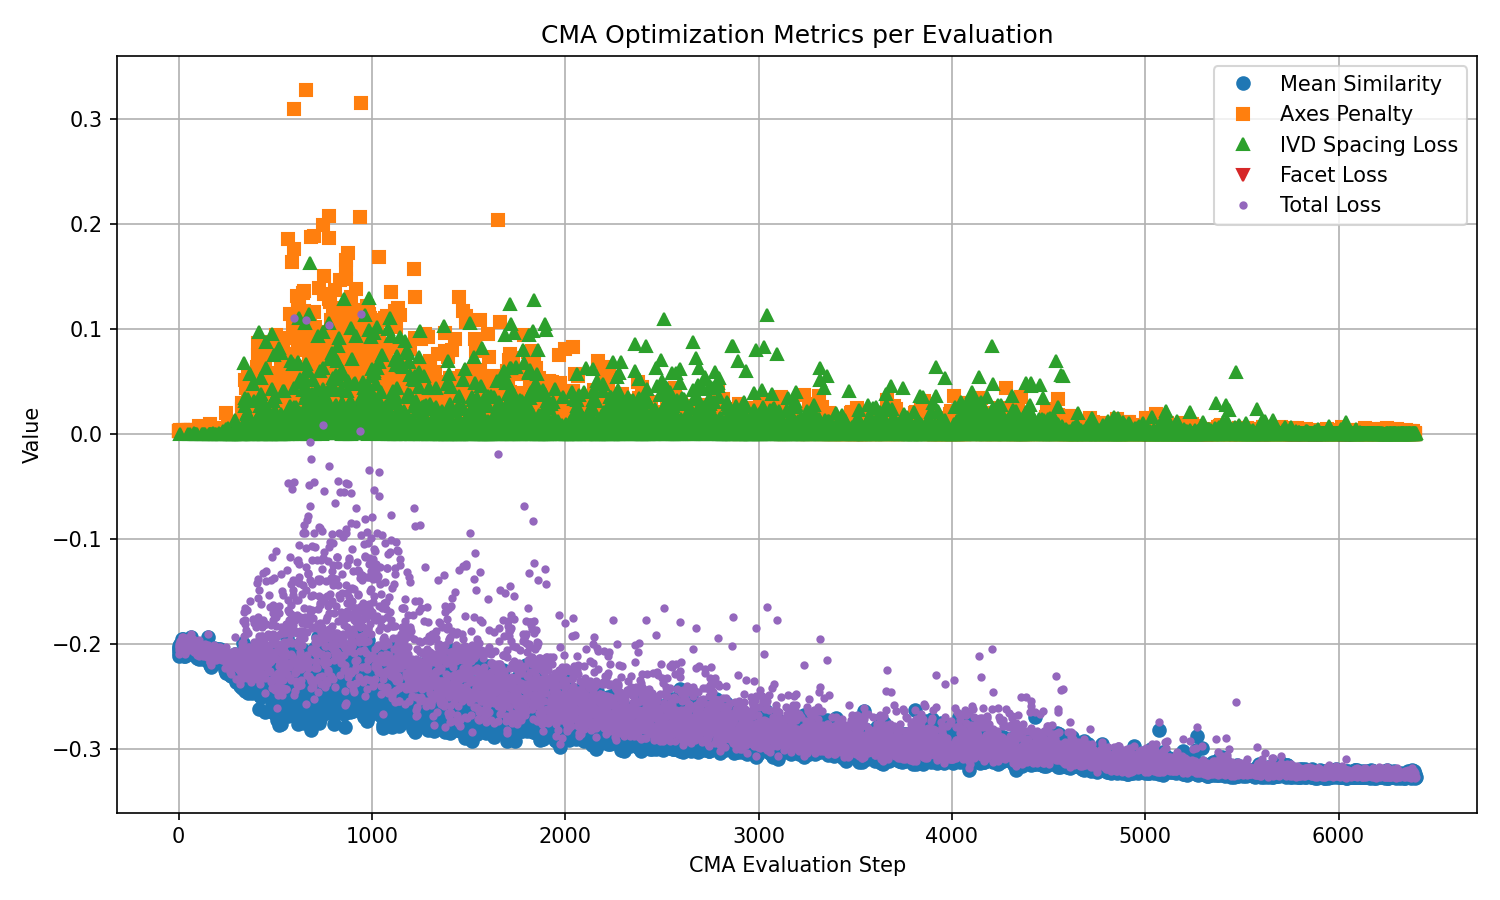
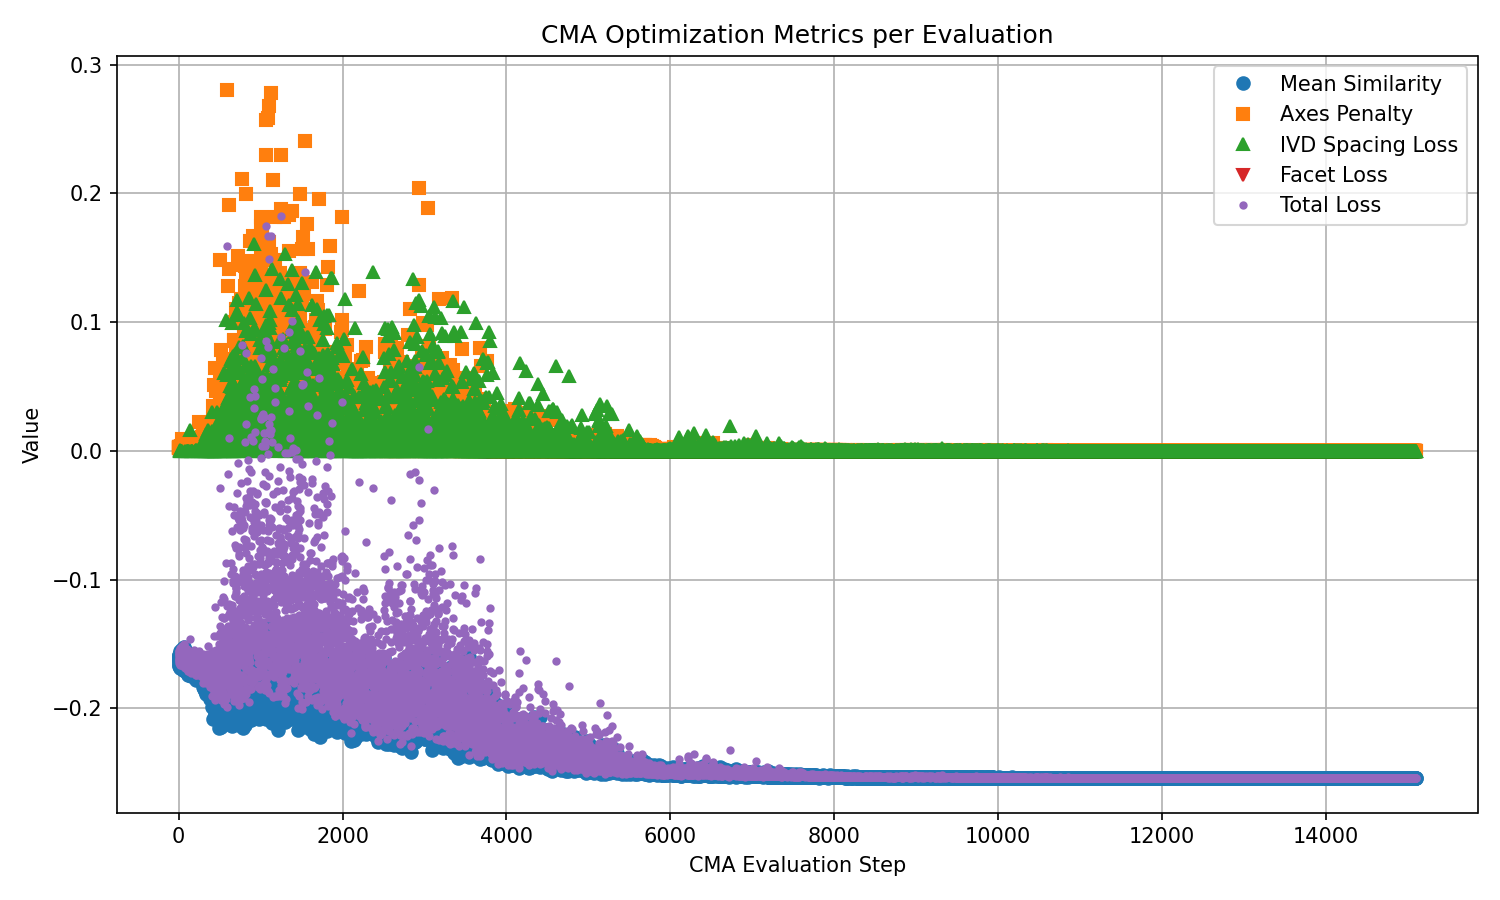
before annealing change

diff --git a/groupwise_GPU.py b/groupwise_GPU.py
@@ -15,7 +15,7 @@ from collections import defaultdict
 from enum import Enum
 # imports from my files
 from utils.file_parser import SlicerJsonTagParser, PyNrrdParser
-from utils.helpers import sitk_euler_to_matrix, compute_inter_vertebral_displacement_penalty, compute_ivd_collision_loss, compute_facet_collision_loss
+from utils.helpers import sitk_euler_to_matrix, sigmoid_ramp, compute_inter_vertebral_displacement_penalty, compute_ivd_collision_loss, compute_facet_collision_loss
 from utils.similarity import IntensitySimilarity
 from extra.centroid import compute_centroid
 from extra.CT_axis import compute_ct_axes
@@ -31,7 +31,7 @@ class ExperimentType(Enum):
 
 
 # CHANGE THIS TO SELECT EXPERIMENT
-EXPERIMENT = ExperimentType.MISSING_DATA
+EXPERIMENT = ExperimentType.NORMAL
 SUCCESS_THRESH_MM = 2.0
 
 
@@ -39,7 +39,7 @@ def get_experiment_settings(exp_type):
     """define experiment-specific settings"""
     if exp_type == ExperimentType.NORMAL:
         return {
-            "us_files": ["US_complete_cal.nrrd"], # can change this to L3
+            "us_files": ["US_full_L3_dropoutref_cal.nrrd"], # can change this to L3
             "perturb": False,
             "n_runs": 1
         }
@@ -55,7 +55,7 @@ def get_experiment_settings(exp_type):
         return {
             "us_files": ["US_full_L3_dropoutref_cal.nrrd"],
             "perturb": False,
-            "n_runs": 30
+            "n_runs": 10
         }
     
     if exp_type == ExperimentType.ROBUSTNESS:
@@ -160,7 +160,7 @@ def evaluate_group_gpu(flat_params, K, centers, sampled_positions_list,
 
     mean_sim = total_sim / float(K)
 
-    lambda_axes = 0.01
+    lambda_axes = 0.01 # 0.01
     axes_margins = {
         'LM': 2.0,
         'AP': 2.0,
@@ -174,7 +174,7 @@ def evaluate_group_gpu(flat_params, K, centers, sampled_positions_list,
         moved_centroids, case_centroids, case_axes, transforms_list, axes_margins
     )
 
-    lambda_ivd = 0.001
+    lambda_ivd = 0.001 # 0.001
     ivd_loss, ivd_metrics = compute_ivd_collision_loss(pairings, transforms_list, case_names)
     
     lambda_facet = 0.000
@@ -200,7 +200,8 @@ def evaluate_group_gpu(flat_params, K, centers, sampled_positions_list,
 
 # SINGLE REGISTRATION WRAPPER
 def run_single_registration(fixed_file, cases_dir, mesh_dir, output_dir, case_names, 
-    apply_perturbation, rng_seed=None, K=None, pairings=None,facet_pairings=None,track_metrics=False ):
+    apply_perturbation, rng_seed=None, K=None, pairings=None,facet_pairings=None,track_metrics=False,
+    save_transforms=False):
 
     
     # set random seed if provided
@@ -304,10 +305,10 @@ def run_single_registration(fixed_file, cases_dir, mesh_dir, output_dir, case_na
     base_stds = [0.01, 0.01, 0.01, 1.0, 1.0, 1.0]
     cma_stds = base_stds * K
     
-    popsize = 80
+    popsize = 100 # was 80
     parents = 20
-    lower_per = [-0.4, -0.4, -0.4, -5, -5, -5]
-    upper_per = [0.4, 0.4, 0.4, 5, 5, 5]
+    lower_per = [-0.4, -0.4, -0.4, -7, -7, -7] # first three are rotation (rad), then translation
+    upper_per = [0.4, 0.4, 0.4, 7, 7, 7] # was all 5 and -5
     lower = lower_per * K
     upper = upper_per * K
     
@@ -335,8 +336,8 @@ def run_single_registration(fixed_file, cases_dir, mesh_dir, output_dir, case_na
             'popsize': popsize,
             'CMA_mu': parents,
             'bounds': [lower, upper],
-            'verb_disp': 0,  # S
-            'maxiter': 80,
+            'verb_disp': 0,  
+            'maxiter': 100, # was 80
             'tolfun': 1e-5,
         }
     )
@@ -369,6 +370,23 @@ def run_single_registration(fixed_file, cases_dir, mesh_dir, output_dir, case_na
     # FINAL TRE
     best_flat = es.result.xbest
     tre_after = compute_case_tre(best_flat, K, case_names, case_landmarks, centers)
+
+    if save_transforms:
+        print("\nSaving transforms for each vertebra...")
+        for k, case in enumerate(case_names):
+            params = best_flat[6*k:6*(k+1)]
+            tx = sitk.Euler3DTransform()
+            tx.SetCenter(centers[k].tolist())
+            tx.SetParameters(params.tolist())
+            
+            # Save transform with run_id in filename if doing multiple runs
+            if rng_seed is not None and rng_seed > 0:
+                out_name = os.path.join(output_dir, f"TransformParameters_groupwise_{case}_run{rng_seed}.h5")
+            else:
+                out_name = os.path.join(output_dir, f"TransformParameters_groupwise_{case}.h5")
+            
+            sitk.WriteTransform(tx, out_name)
+            print(f"  Wrote transform for {case}: {out_name}")
     
     runtime = time.time() - start_time
     success, per_vertebra_success = success_from_tre(tre_after, SUCCESS_THRESH_MM)
@@ -469,7 +487,8 @@ if __name__ == "__main__":
                 K=K,
                 pairings=pairings,
                 facet_pairings=facet_pairings,
-                track_metrics=track_metrics
+                track_metrics=track_metrics,
+                save_transforms=(EXPERIMENT == ExperimentType.NORMAL)
             )
             
             # results

diff --git a/utils/helpers.py b/utils/helpers.py
@@ -192,7 +192,7 @@ def compute_ivd_collision_loss(pairings, transforms_list, case_names):
 
         # COMPUTE LOSS
         # w_collision = 1.0   # critical - prevent collisions, mayeb try 2?
-        w_mean_spacing = 0.5   # moderate - maintain anatomy
+        w_mean_spacing = 1.5   # moderate - maintain anatomy
         w_direction = 1.0
         # w_relative_spacing = 1.0
         
@@ -299,6 +299,9 @@ def compute_inter_vertebral_displacement_penalty(moved_centroids, case_centroids
     return penalty / float(K - 1)
 
 
+def sigmoid_ramp(iteration, max_iter, center=0.4, sharpness=10):
+    t = iteration / max_iter
+    return 1.0 / (1.0 + np.exp(-sharpness * (t - center)))
 
 
 def make_hinge_axes(json_path):
